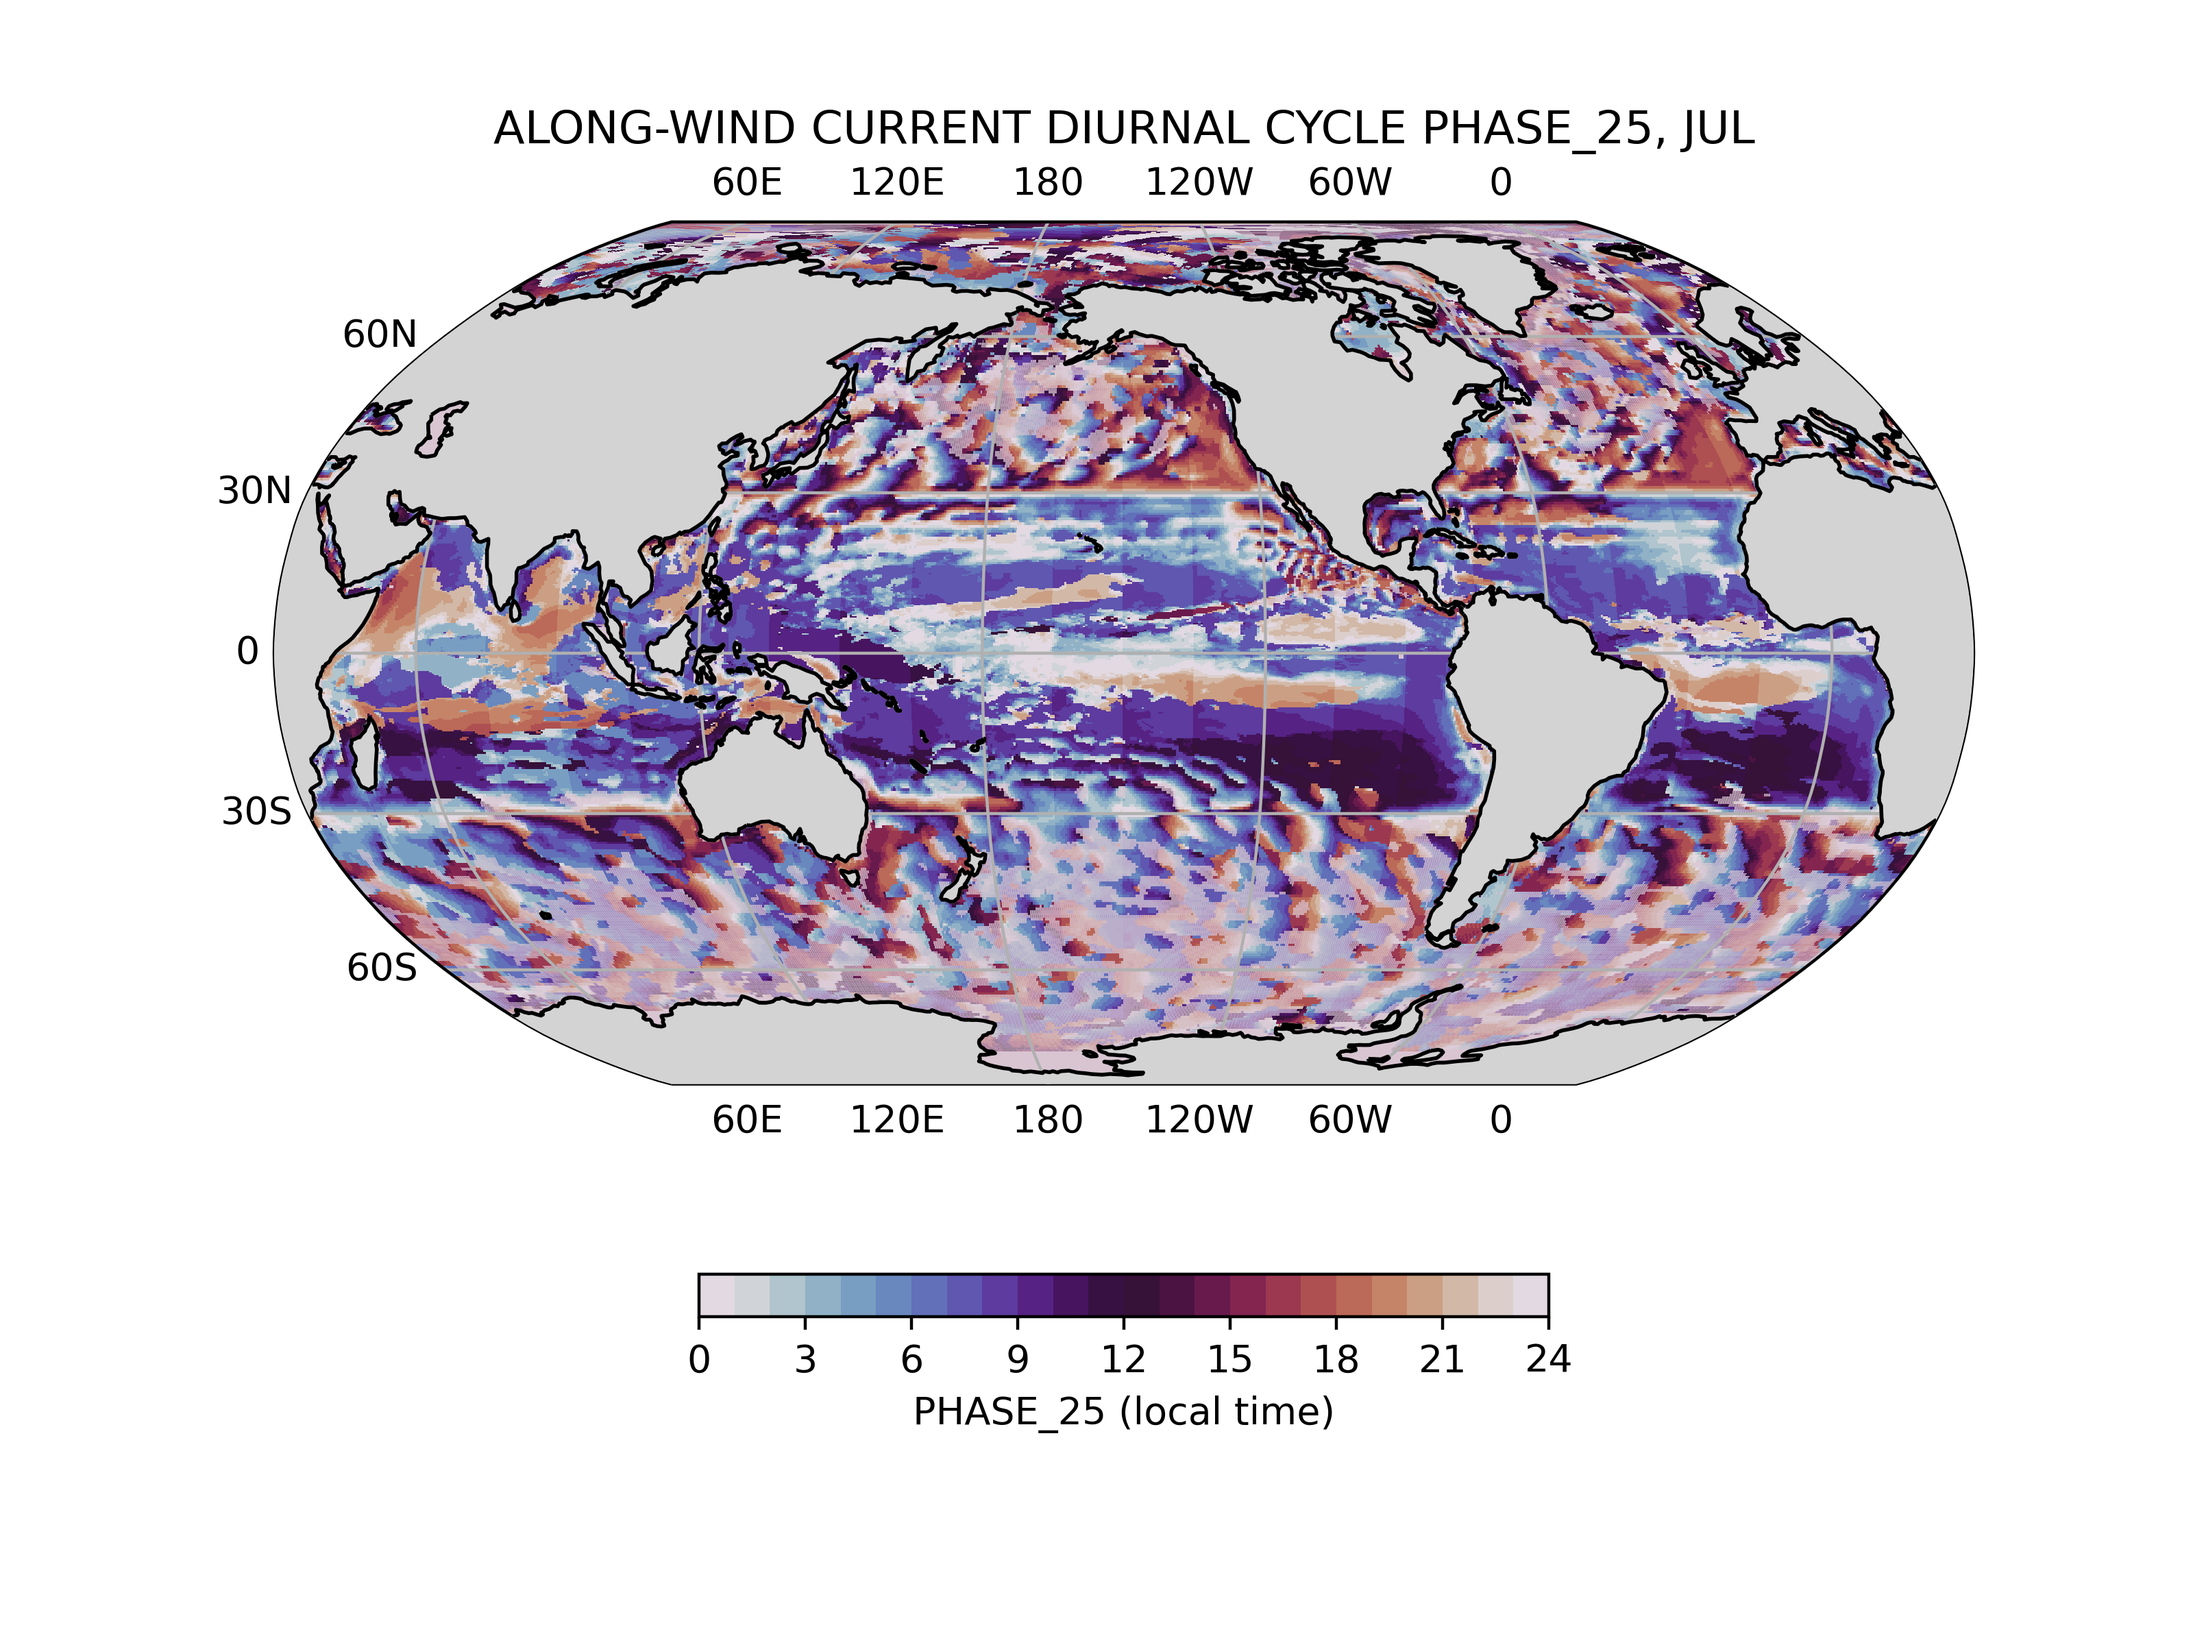
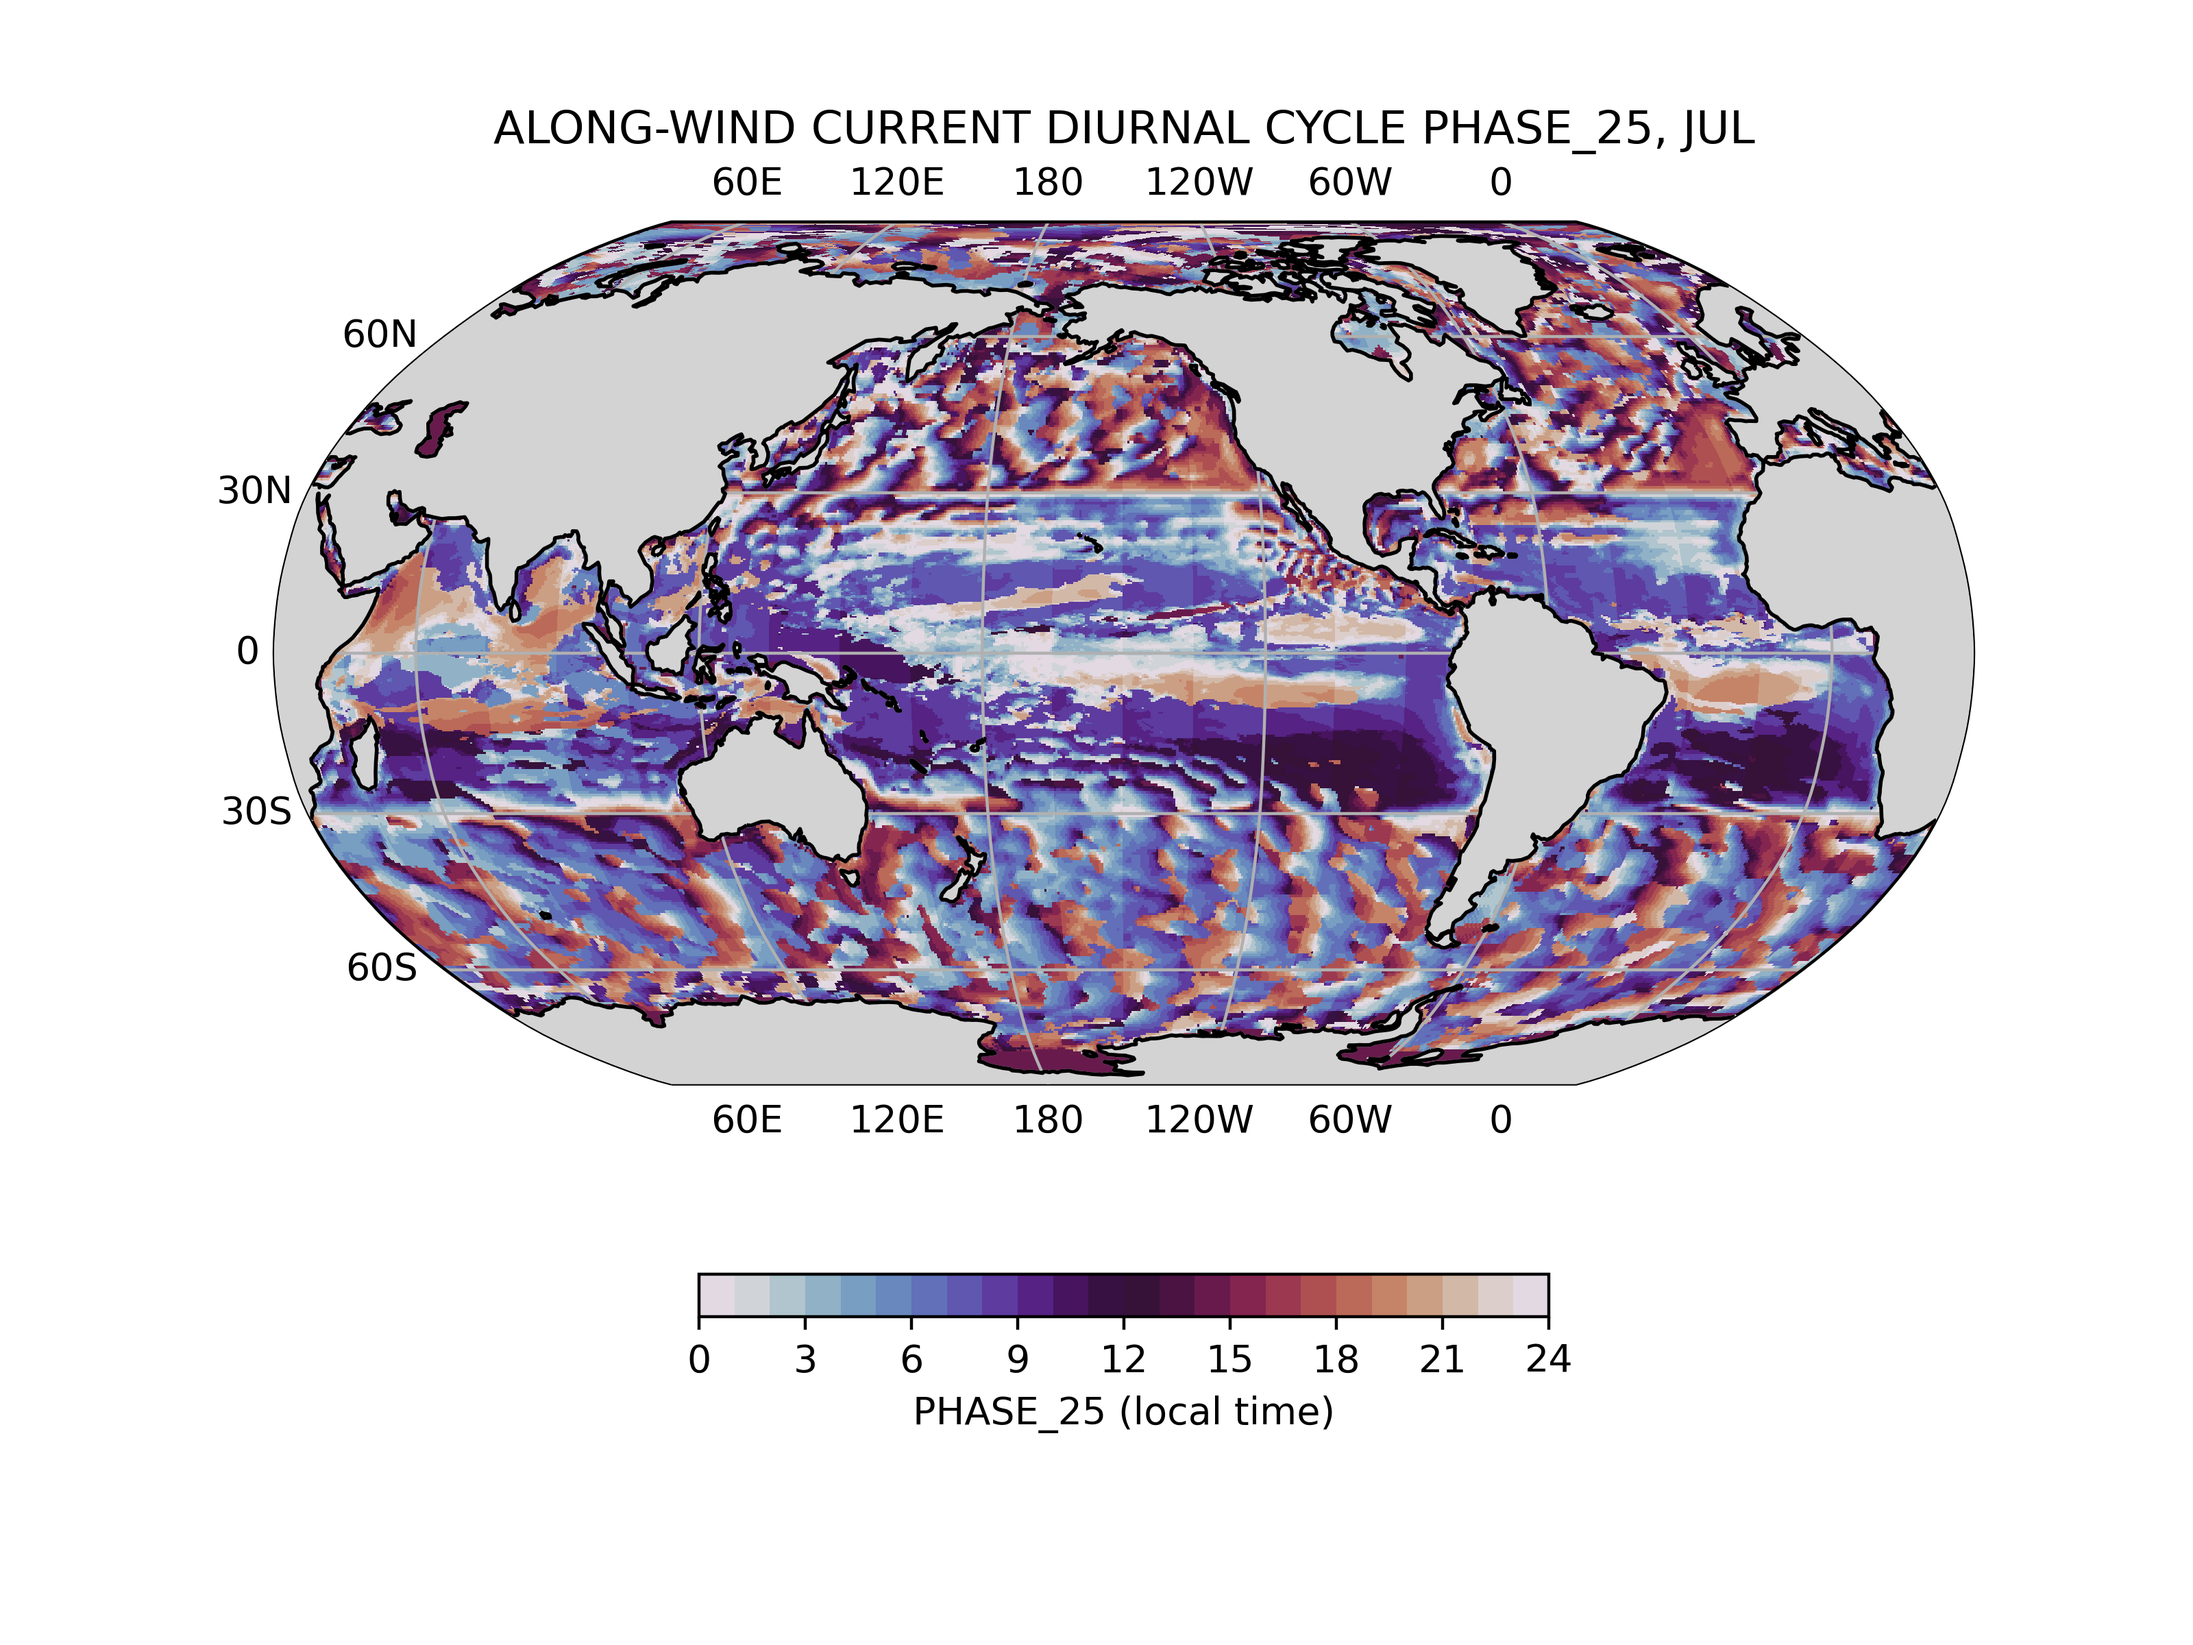
Fixes colorbar limits for 25 m maps.

diff --git a/diurnal_cycle/analysis/diurnal_range_maps.py b/diurnal_cycle/analysis/diurnal_range_maps.py
@@ -211,7 +211,7 @@ def main(plot_month, plot_var, plot_type):
 def plot_one_map(ds, ptype, pvar, mon):
     
     # Define whether and where to mask fields according to diurnal range.
-    range_mask = plot_dets(pvar, 'mask_lim')
+    range_mask = 0.0 #plot_dets(pvar, 'mask_lim')
     
     # Set up figure and axes.
     fig = plt.figure(figsize=(8, 6))
@@ -375,8 +375,8 @@ def plot_dets(vn, att, pty=None):
             'unitsRANGE':'cm s-1',
             'cmapRANGE':'magma',
             'minRANGE_25':0.0,
-            'maxRANGE_25':15.0,
-            'stepRANGE_25':1.0,
+            'maxRANGE_25':2.0,
+            'stepRANGE_25':0.1,
             'unitsRANGE_25':'cm s-1',
             'cmapRANGE_25':'magma',
             'minPHASE':0.0,
